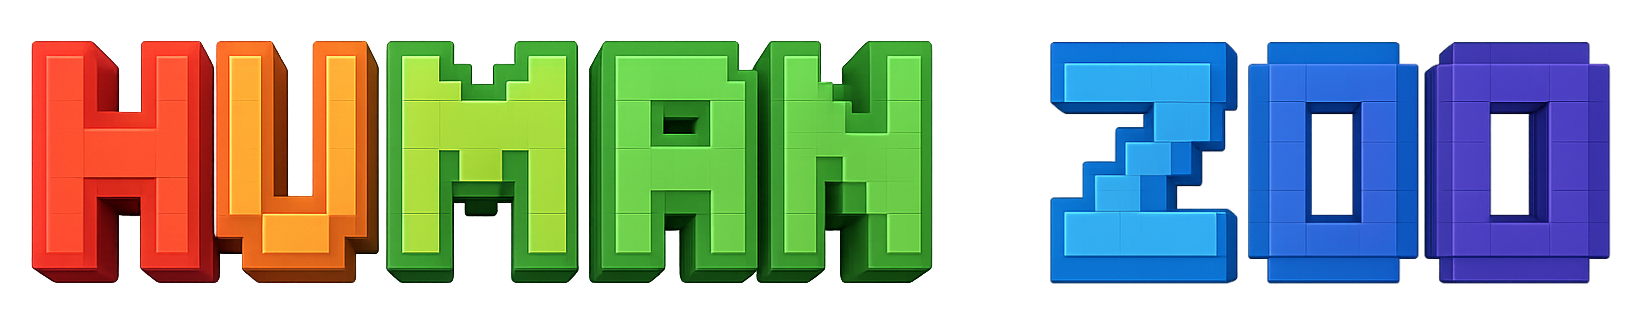
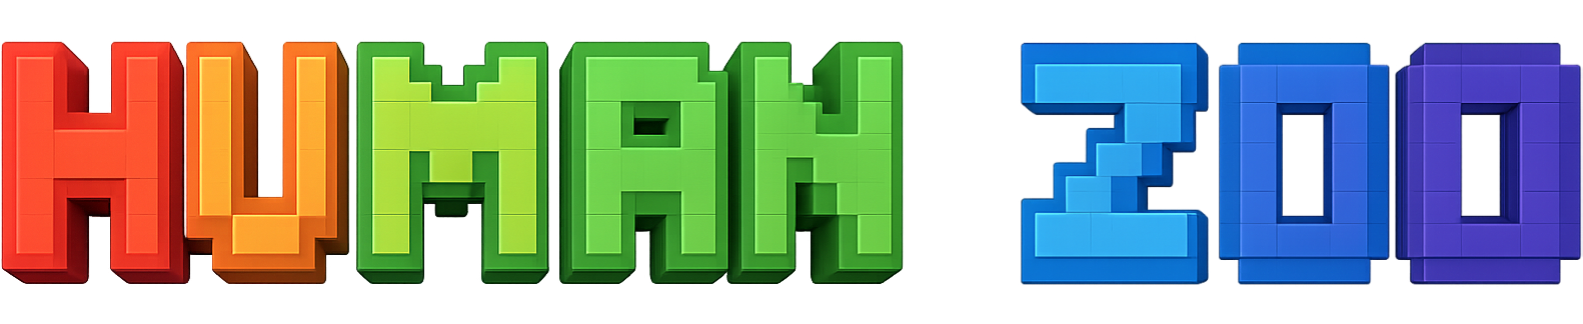
🎨 style: 更新 HumanZoo 品牌图片

diff --git a/src/components/Header.tsx b/src/components/Header.tsx
@@ -23,7 +23,7 @@ interface TimeState {
 	ss: number;
 }
 
-const DEFAULT_BRAND_LOGO = "/humanzoo-inline.png";
+const DEFAULT_BRAND_LOGO = "/humanzoo-inline.png?v=202606241650";
 const DEFAULT_FAVICON = "/humanzoo-favicon.ico";
 
 const useCurrentTime = () => {
@@ -134,10 +134,10 @@ function Header() {
 							alt={usesInlineBrandLogo ? siteName || "HumanZoo" : "site-logo"}
 							src={brandLogo}
 							className={cn(
-								"relative m-0! border-2 border-transparent h-6 object-top p-0!",
+								"relative m-0! h-6 object-top p-0!",
 								usesInlineBrandLogo
-									? "w-auto max-w-[42vw] object-contain object-left"
-									: "w-6 object-cover",
+									? "w-auto max-w-[42vw] border-0 object-contain object-left"
+									: "w-6 border-2 border-transparent object-cover",
 							)}
 						/>
 					</div>